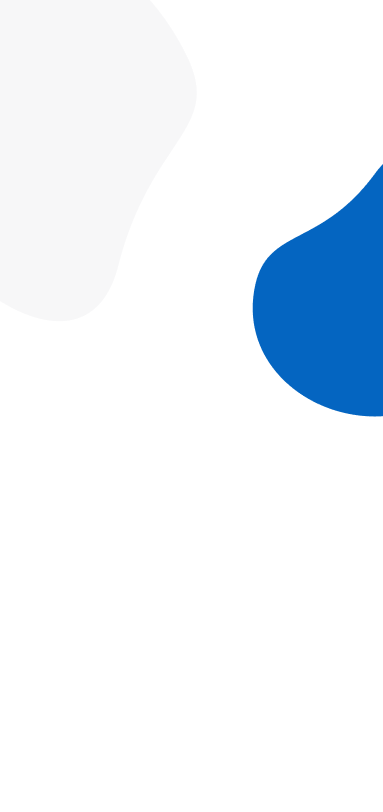
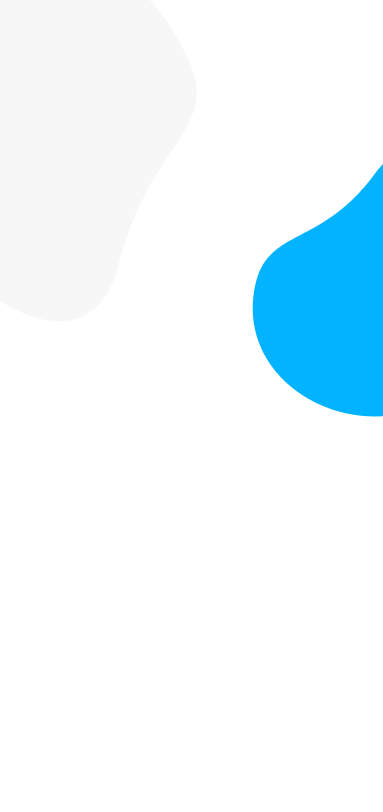
atualizar

Changed region(s): [[0.6606, 0.1847, 1.0, 0.5234]]

diff --git a/src/pages/login/loginLojas.tsx b/src/pages/login/loginLojas.tsx
@@ -50,7 +50,7 @@ export default function LoginLojas({ navigation }: any) {
             onPress={() => navigation.goBack()}
           >
             <Ionicons name="cube" size={14} color="white" />
-            <Text style={styles.produtosButtonText}>PRODUTOS</Text>
+            <Text style={styles.produtosButtonText}>NOTAS</Text>
           </TouchableOpacity>
         </View>
 
@@ -77,7 +77,7 @@ export default function LoginLojas({ navigation }: any) {
                     : 'radio-button-off'
                 }
                 size={20}
-                color={lojaSelecionada === item ? '#007bff' : '#aaa'}
+                color={lojaSelecionada === item ? '#02B3FF' : '#aaa'}
               />
               <Text style={styles.lojaText}>{item}</Text>
             </TouchableOpacity>
@@ -116,7 +116,7 @@ const styles = StyleSheet.create({
   produtosButton: {
     flexDirection: 'row',
     alignItems: 'center',
-    backgroundColor: '#007bff',
+    backgroundColor: '#02B3FF',
     paddingHorizontal: 10,
     paddingVertical: 4,
     borderRadius: 20,
@@ -157,7 +157,7 @@ const styles = StyleSheet.create({
     color: '#333',
   },
   acessarButton: {
-    backgroundColor: '#007bff',
+    backgroundColor: '#02B3FF',
     paddingVertical: 14,
     borderRadius: 25,
     alignItems: 'center',

diff --git a/src/pages/login/LoginHome.tsx b/src/pages/login/LoginHome.tsx
@@ -67,7 +67,7 @@ export default function LoginHome({ navigation }: Props) {
             onPress={() => navigation.goBack()}
           >
             <Ionicons name="cube" size={14} color="white" />
-            <Text style={styles.produtosButtonText}>PRODUTOS</Text>
+            <Text style={styles.produtosButtonText}>NOTAS</Text>
           </TouchableOpacity>
         </View>
 
@@ -179,7 +179,7 @@ const styles = StyleSheet.create({
   produtosButton: {
     flexDirection: 'row',
     alignItems: 'center',
-    backgroundColor: '#007bff',
+    backgroundColor: '#02B3FF',
     paddingHorizontal: 10,
     paddingVertical: 4,
     borderRadius: 20,
@@ -219,7 +219,7 @@ const styles = StyleSheet.create({
     marginLeft: 10,
   },
   loginButton: {
-    backgroundColor: '#007bff',
+    backgroundColor: '#02B3FF',
     paddingVertical: 14,
     borderRadius: 25,
     alignItems: 'center',

diff --git a/src/pages/login/index.tsx b/src/pages/login/index.tsx
@@ -20,8 +20,8 @@ export default function Login({ navigation }: Props) {
           style={style.button}
           onPress={() => navigation.navigate('LoginHome')}
         >
-          <Ionicons name="cube" size={20} color="white" />
-          <Text style={style.buttonText}>PRODUTOS</Text>
+          <Ionicons name="document-text" size={20} color="white" />
+          <Text style={style.buttonText}>NOTAS</Text>
         </TouchableOpacity>
       </View>
     </ImageBackground>

diff --git a/src/pages/login/styles.ts b/src/pages/login/styles.ts
@@ -22,7 +22,7 @@ export const style = StyleSheet.create({
   button: {
     flexDirection: 'row',
     alignItems: 'center',
-    backgroundColor: '#007bff',
+    backgroundColor: '#02B3FF',
     paddingVertical: 10,
     paddingHorizontal: 25,
     borderRadius: 25,
